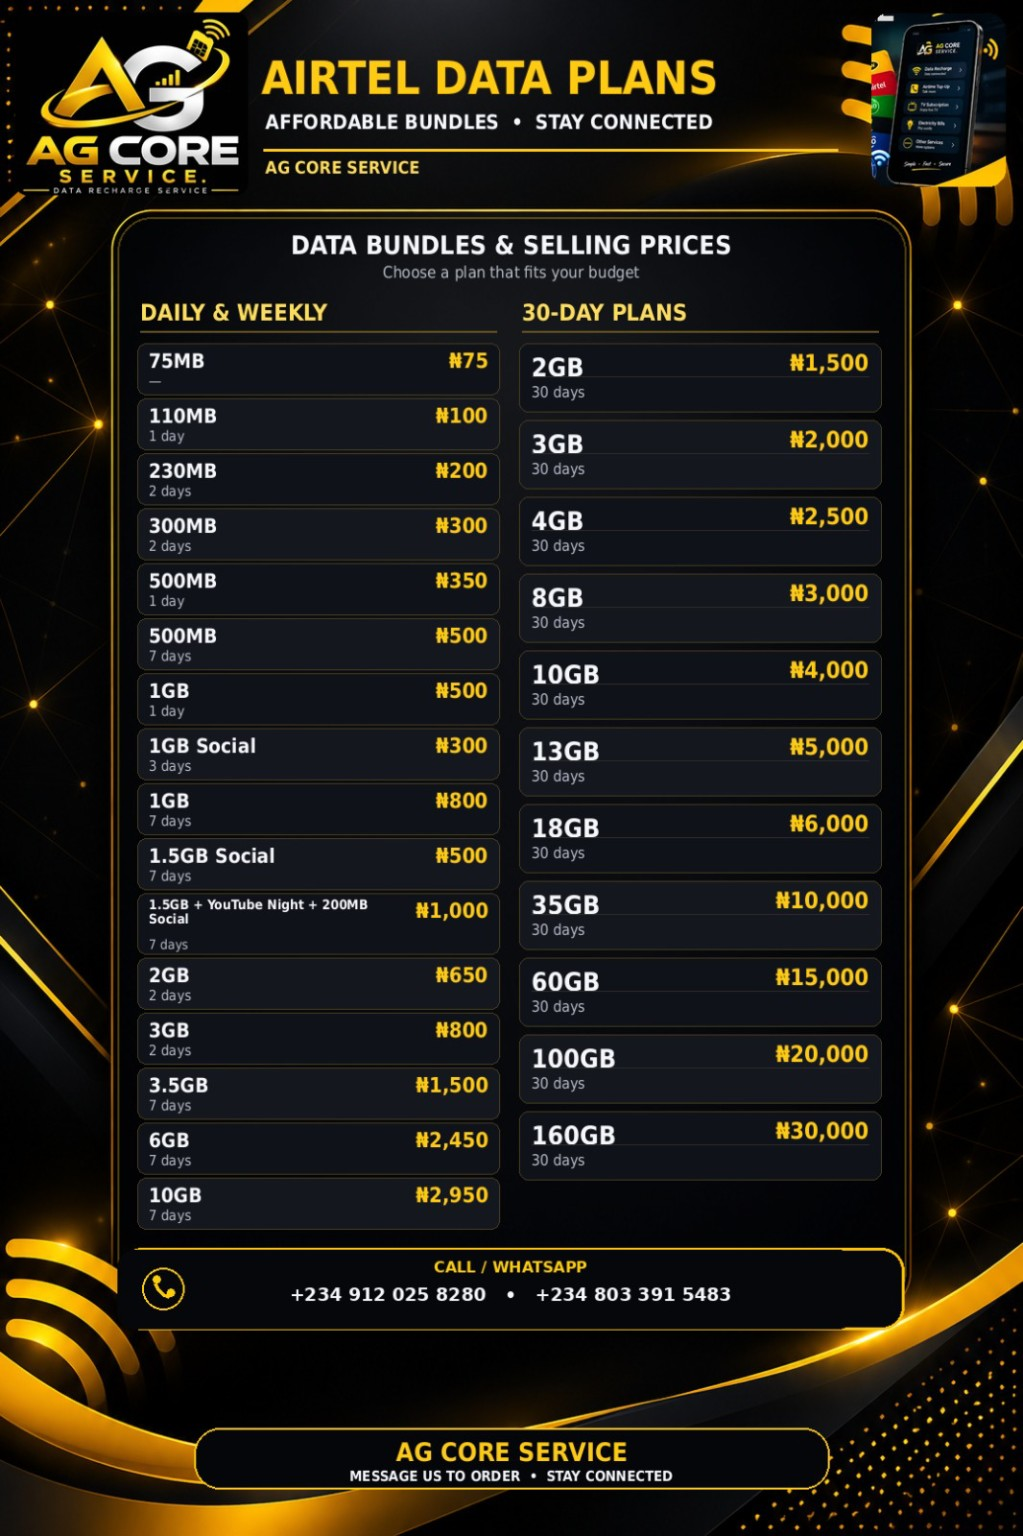
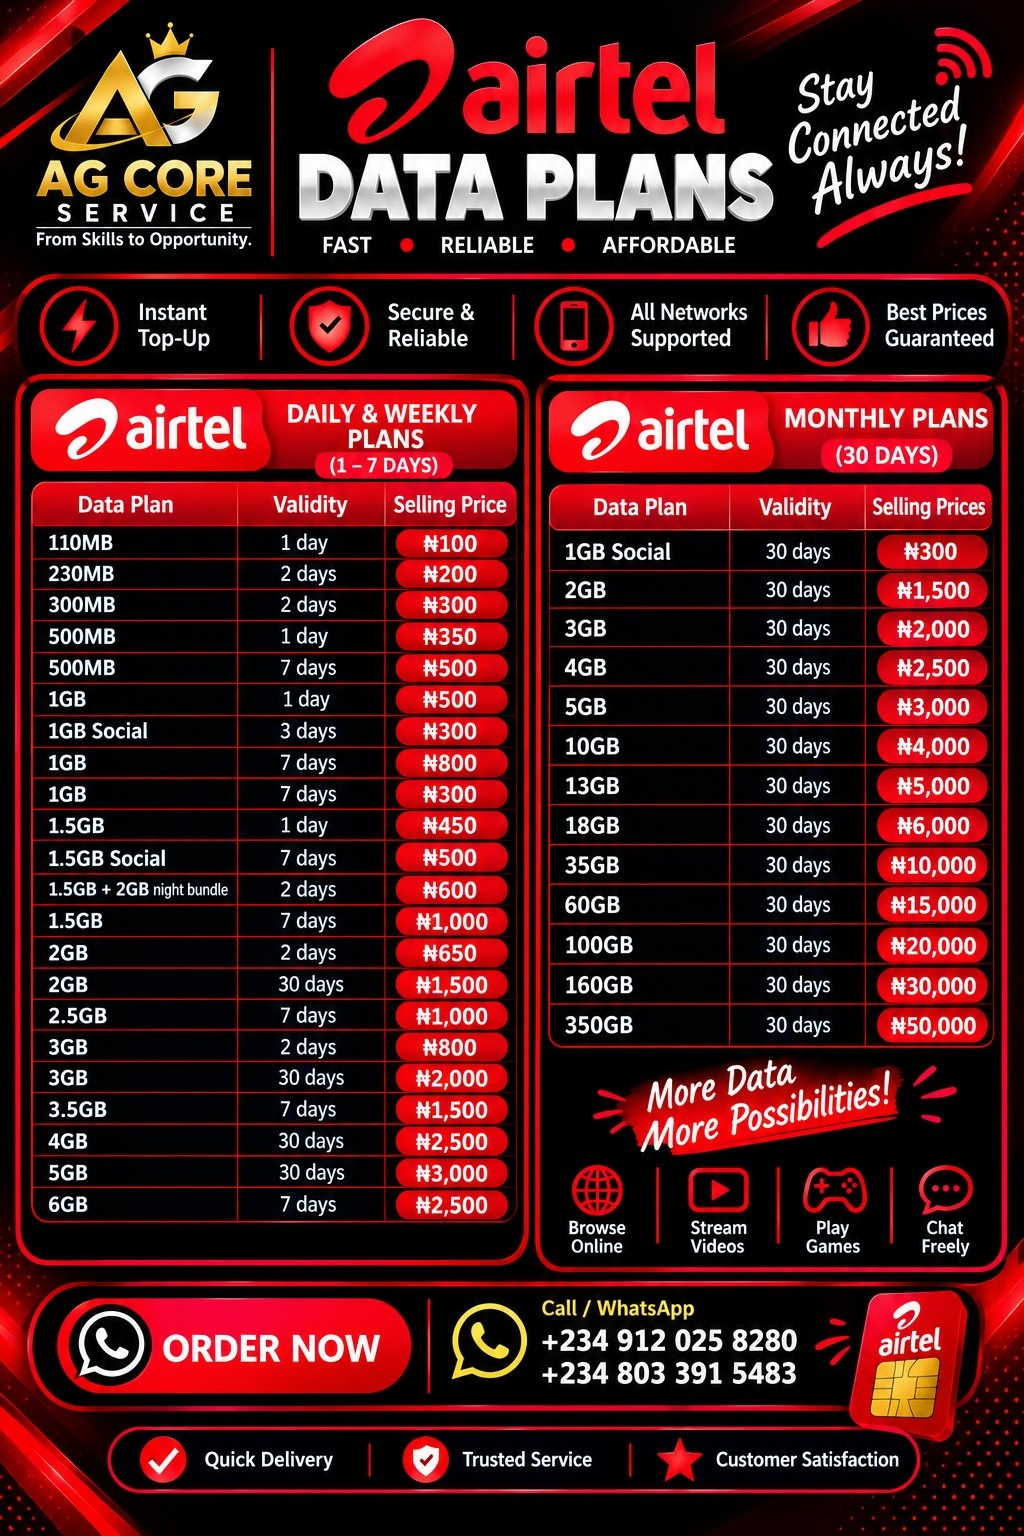
Updated MTN, Airtel and Glo price

diff --git a/plans.js b/plans.js
@@ -1,49 +1,70 @@
-
 const AG_CORE_PLANS = [
   { network: "MTN", data: "75MB", price: 75, validity: "1 day" },
+  { network: "MTN", data: "110MB", price: 100, validity: "1 day" },
   { network: "MTN", data: "230MB", price: 200, validity: "1 day" },
-  { network: "MTN", data: "500MB", price: 250, validity: "1 day" },
-  { network: "MTN", data: "750MB", price: 460, validity: "5 days" },
-  { network: "MTN", data: "1GB", price: 420, validity: "7 days" },
-  { network: "MTN", data: "1GB", price: 430, validity: "30 days" },
-  { network: "MTN", data: "1.2GB", price: 750, validity: "7 days" },
-  { network: "MTN", data: "2GB", price: 850, validity: "30 days" },
-  { network: "MTN", data: "2.5GB", price: 780, validity: "2 days" },
-  { network: "MTN", data: "2.5GB", price: 930, validity: "7 days" },
-  { network: "MTN", data: "3GB", price: 1250, validity: "30 days" },
+  { network: "MTN", data: "1GB", price: 500, validity: "1 day" },
+  { network: "MTN", data: "2.5GB", price: 750, validity: "1 day" },
+  { network: "MTN", data: "750MB", price: 450, validity: "3 days" },
+  { network: "MTN", data: "1.5GB", price: 600, validity: "2 days" },
+  { network: "MTN", data: "2GB", price: 750, validity: "2 days" },
+  { network: "MTN", data: "2.5GB", price: 900, validity: "2 days" },
   { network: "MTN", data: "3.2GB", price: 1000, validity: "2 days" },
   { network: "MTN", data: "4GB", price: 1200, validity: "2 days" },
+  { network: "MTN", data: "500MB", price: 250, validity: "7 days" },
+  { network: "MTN", data: "1GB", price: 400, validity: "7 days" },
+  { network: "MTN", data: "1.2GB", price: 750, validity: "7 days" },
+  { network: "MTN", data: "1.5GB", price: 1000, validity: "7 days" },
+  { network: "MTN", data: "2GB", price: 810, validity: "7 days" },
+  { network: "MTN", data: "3GB", price: 1080, validity: "7 days" },
+  { network: "MTN", data: "11GB", price: 3450, validity: "7 days" },
+  { network: "MTN", data: "20GB", price: 4950, validity: "7 days" },
+  { network: "MTN", data: "1GB", price: 420, validity: "30 days" },
+  { network: "MTN", data: "2GB", price: 830, validity: "30 days" },
+  { network: "MTN", data: "3GB", price: 1250, validity: "30 days" },
   { network: "MTN", data: "5GB", price: 1550, validity: "30 days" },
-  { network: "MTN", data: "5.5GB", price: 1500, validity: "7 days" },
-  { network: "MTN", data: "11GB", price: 3500, validity: "7 days" },
-  { network: "MTN", data: "14.5GB", price: 4950, validity: "30 days" },
-  { network: "MTN", data: "20GB", price: 4950, validity: "30 days" },
+  { network: "MTN", data: "1.2GB Social Bundle", price: 450, validity: "30 days" },
+  { network: "MTN", data: "6.75GB", price: 2950, validity: "30 days" },
+  { network: "MTN", data: "7GB", price: 3450, validity: "30 days" },
+  { network: "MTN", data: "10GB", price: 4500, validity: "30 days" },
+  { network: "MTN", data: "14.5GB", price: 4900, validity: "30 days" },
+  { network: "MTN", data: "16.5GB", price: 6400, validity: "30 days" },
+  { network: "MTN", data: "20GB", price: 8800, validity: "30 days" },
+  { network: "MTN", data: "36GB", price: 10800, validity: "30 days" },
+  { network: "MTN", data: "75GB", price: 17600, validity: "30 days" },
+  { network: "MTN", data: "165GB", price: 34500, validity: "30 days" },
+  { network: "MTN", data: "250GB", price: 54000, validity: "30 days" },
+  { network: "MTN", data: "450GB", price: 73000, validity: "90 days" },
 
-  { network: "Airtel", data: "75MB", price: 75, validity: "1 day" },
   { network: "Airtel", data: "110MB", price: 100, validity: "1 day" },
+  { network: "Airtel", data: "500MB", price: 350, validity: "1 day" },
+  { network: "Airtel", data: "1GB", price: 500, validity: "1 day" },
   { network: "Airtel", data: "230MB", price: 200, validity: "2 days" },
   { network: "Airtel", data: "300MB", price: 300, validity: "2 days" },
-  { network: "Airtel", data: "500MB", price: 350, validity: "1 day" },
-  { network: "Airtel", data: "500MB", price: 500, validity: "7 days" },
-  { network: "Airtel", data: "1GB Social", price: 300, validity: "3 days" },
-  { network: "Airtel", data: "1GB", price: 800, validity: "7 days" },
-  { network: "Airtel", data: "1.5GB Social", price: 500, validity: "7 days" },
+  { network: "Airtel", data: "1.5GB + 2GB night bundle", price: 600, validity: "2 days" },
   { network: "Airtel", data: "2GB", price: 650, validity: "2 days" },
   { network: "Airtel", data: "3GB", price: 800, validity: "2 days" },
+  { network: "Airtel", data: "1GB Social", price: 300, validity: "3 days" },
+  { network: "Airtel", data: "500MB", price: 500, validity: "7 days" },
+  { network: "Airtel", data: "1GB", price: 800, validity: "7 days" },
+  { network: "Airtel", data: "1GB Special Bundle", price: 300, validity: "7 days" },
+  { network: "Airtel", data: "1.5GB Social", price: 500, validity: "7 days" },
+  { network: "Airtel", data: "1.5GB", price: 1000, validity: "7 days" },
+  { network: "Airtel", data: "2.5GB", price: 1000, validity: "7 days" },
   { network: "Airtel", data: "3.5GB", price: 1500, validity: "7 days" },
-  { network: "Airtel", data: "6GB", price: 2450, validity: "7 days" },
-  { network: "Airtel", data: "10GB", price: 2950, validity: "30 days" },
+  { network: "Airtel", data: "6GB", price: 2500, validity: "7 days" },
+  { network: "Airtel", data: "1GB Social", price: 300, validity: "30 days" },
   { network: "Airtel", data: "2GB", price: 1500, validity: "30 days" },
   { network: "Airtel", data: "3GB", price: 2000, validity: "30 days" },
   { network: "Airtel", data: "4GB", price: 2500, validity: "30 days" },
-  { network: "Airtel", data: "8GB", price: 3000, validity: "30 days" },
+  { network: "Airtel", data: "5GB", price: 3000, validity: "30 days" },
   { network: "Airtel", data: "10GB", price: 4000, validity: "30 days" },
   { network: "Airtel", data: "13GB", price: 5000, validity: "30 days" },
   { network: "Airtel", data: "18GB", price: 6000, validity: "30 days" },
-  { network: "Airtel", data: "35GB", price: 9600, validity: "30 days" },
+  { network: "Airtel", data: "35GB", price: 10000, validity: "30 days" },
   { network: "Airtel", data: "60GB", price: 15000, validity: "30 days" },
   { network: "Airtel", data: "100GB", price: 20000, validity: "30 days" },
   { network: "Airtel", data: "160GB", price: 30000, validity: "30 days" },
+  { network: "Airtel", data: "350GB", price: 50000, validity: "30 days" },
 
   { network: "Glo", data: "200MB", price: 100, validity: "14 days" },
   { network: "Glo", data: "500MB", price: 220, validity: "30 days" },

diff --git a/script.js b/script.js
@@ -1,8 +1,17 @@
+/*
+  AG CORE WEBSITE INTERACTIONS
+  ============================
+  This file controls the mobile menu, data-plan filters, plan cards and WhatsApp links.
+  To change plan prices, edit plans.js instead.
+*/
 
+// Use the primary business WhatsApp number without spaces or the + sign.
 const WHATSAPP_NUMBER = "2349120258280";
 
+// Keep track of the network selected in the data-plan section.
 let selectedNetwork = "MTN";
 
+// Find the main page elements once so we can reuse them.
 const planGrid = document.getElementById("planGrid");
 const emptyState = document.getElementById("emptyState");
 const searchInput = document.getElementById("planSearch");
@@ -12,10 +21,12 @@ const recipientNumberInput = document.getElementById("recipientNumber");
 const menuToggle = document.getElementById("menuToggle");
 const mainNav = document.getElementById("mainNav");
 
+/** Format a price as Nigerian naira. */
 function formatPrice(price) {
   return `₦${Number(price).toLocaleString("en-NG")}`;
 }
 
+/** Convert a plan's data amount into a number for largest-data sorting. */
 function getDataSize(dataDescription) {
   const match = dataDescription.match(/[\d.]+/);
   if (!match) return 0;
@@ -25,14 +36,17 @@ function getDataSize(dataDescription) {
   return amount;
 }
 
+/** Create a WhatsApp link with a pre-filled message. */
 function createWhatsAppLink(message) {
   return `https://wa.me/${WHATSAPP_NUMBER}?text=${encodeURIComponent(message)}`;
 }
 
+/** Add the selected network's colour class to each plan card. */
 function getNetworkClass(network) {
   return network.toLowerCase();
 }
 
+/** Return plans that match the chosen network, search and validity filters. */
 function getFilteredPlans() {
   const searchTerm = searchInput.value.trim().toLowerCase();
   const chosenValidity = validityFilter.value;
@@ -46,6 +60,7 @@ function getFilteredPlans() {
     return matchesNetwork && matchesSearch && matchesValidity;
   });
 
+  // Sorting only changes the displayed order; it does not change the saved prices.
   if (sortSelect.value === "price-low") {
     matchingPlans.sort((a, b) => a.price - b.price);
   } else if (sortSelect.value === "price-high") {
@@ -57,6 +72,7 @@ function getFilteredPlans() {
   return matchingPlans;
 }
 
+/** Build a plan card from one item in plans.js. */
 function createPlanCard(plan) {
   const card = document.createElement("article");
   card.className = `plan-card ${getNetworkClass(plan.network)}`;
@@ -96,6 +112,7 @@ function createPlanCard(plan) {
   return card;
 }
 
+/** Display all matching plans in the plan grid. */
 function renderPlans() {
   const plans = getFilteredPlans();
   planGrid.replaceChildren();
@@ -107,10 +124,12 @@ function renderPlans() {
   emptyState.hidden = plans.length > 0;
 }
 
+/** Validate the recipient's number and prepare the WhatsApp order. */
 function orderPlan(plan) {
   const rawNumber = recipientNumberInput.value.trim();
   const digitsOnly = rawNumber.replace(/\D/g, "");
 
+  // Accept common Nigerian local numbers and international +234 numbers.
   const isValidNigerianNumber = /^0[789][01]\d{8}$/.test(digitsOnly) || /^234[789][01]\d{8}$/.test(digitsOnly);
 
   if (!isValidNigerianNumber) {
@@ -137,6 +156,7 @@ function orderPlan(plan) {
   window.open(createWhatsAppLink(message), "_blank", "noopener,noreferrer");
 }
 
+/** Select a network and update the highlighted tab. */
 function selectNetwork(network) {
   selectedNetwork = network;
 
@@ -149,15 +169,18 @@ function selectNetwork(network) {
   renderPlans();
 }
 
+/** Attach click handlers to the MTN, Airtel and Glo tabs. */
 document.querySelectorAll(".tab[data-network]").forEach((tab) => {
   tab.addEventListener("click", () => selectNetwork(tab.dataset.network));
 });
 
+// Re-render the plan cards whenever the customer changes a filter.
 searchInput.addEventListener("input", renderPlans);
 validityFilter.addEventListener("change", renderPlans);
 sortSelect.addEventListener("change", renderPlans);
 recipientNumberInput.addEventListener("input", () => recipientNumberInput.setCustomValidity(""));
 
+// Set up all general WhatsApp enquiry links.
 document.querySelectorAll("a[data-whatsapp]").forEach((link) => {
   const message = link.dataset.message || "Hi AG CORE Services, I'd like to make an enquiry.";
   link.href = createWhatsAppLink(message);
@@ -165,6 +188,7 @@ document.querySelectorAll("a[data-whatsapp]").forEach((link) => {
   link.rel = "noopener noreferrer";
 });
 
+// Mobile navigation: open it with the menu button and close after a link is chosen.
 menuToggle.addEventListener("click", () => {
   const isOpen = mainNav.classList.toggle("open");
   menuToggle.setAttribute("aria-expanded", String(isOpen));
@@ -179,6 +203,8 @@ mainNav.querySelectorAll("a").forEach((link) => {
   });
 });
 
+// Show the current year in the footer.
 document.getElementById("year").textContent = new Date().getFullYear();
 
+// Render MTN plans when the page first loads.
 renderPlans();

diff --git a/style.css b/style.css
@@ -1,3 +1,9 @@
+/* ==========================================================
+   AG CORE SERVICES — WEBSITE STYLES
+   Beginner note: colours and common sizes are stored below.
+   Change these variables to update the look of the whole site.
+   ========================================================== */
+
 :root {
   --page-bg: #080a0e;
   --panel-bg: #111722;
@@ -13,6 +19,7 @@
   --shadow: 0 18px 55px rgb(0 0 0 / 25%);
 }
 
+/* Basic reset and page defaults */
 * {
   box-sizing: border-box;
 }
@@ -113,6 +120,7 @@ summary {
   text-transform: uppercase;
 }
 
+/* Header, brand and navigation */
 .site-header {
   position: sticky;
   z-index: 20;
@@ -197,6 +205,7 @@ summary {
   background: var(--text);
 }
 
+/* Reusable buttons */
 .button {
   display: inline-flex;
   align-items: center;
@@ -234,6 +243,7 @@ summary {
   color: var(--text);
 }
 
+/* Hero section */
 .hero {
   display: grid;
   grid-template-columns: 1.02fr 0.98fr;
@@ -619,6 +629,7 @@ input::placeholder {
   font-size: 1rem;
 }
 
+/* How to order */
 .steps {
   display: grid;
   grid-template-columns: repeat(4, minmax(0, 1fr));
@@ -651,6 +662,7 @@ input::placeholder {
   font-size: 0.9rem;
 }
 
+/* Customer feedback: we do not show fake testimonials. */
 .review-panel {
   display: flex;
   align-items: flex-start;
@@ -687,6 +699,7 @@ input::placeholder {
   text-align: center;
 }
 
+/* FAQ */
 .faq-list {
   display: grid;
   max-width: 850px;
